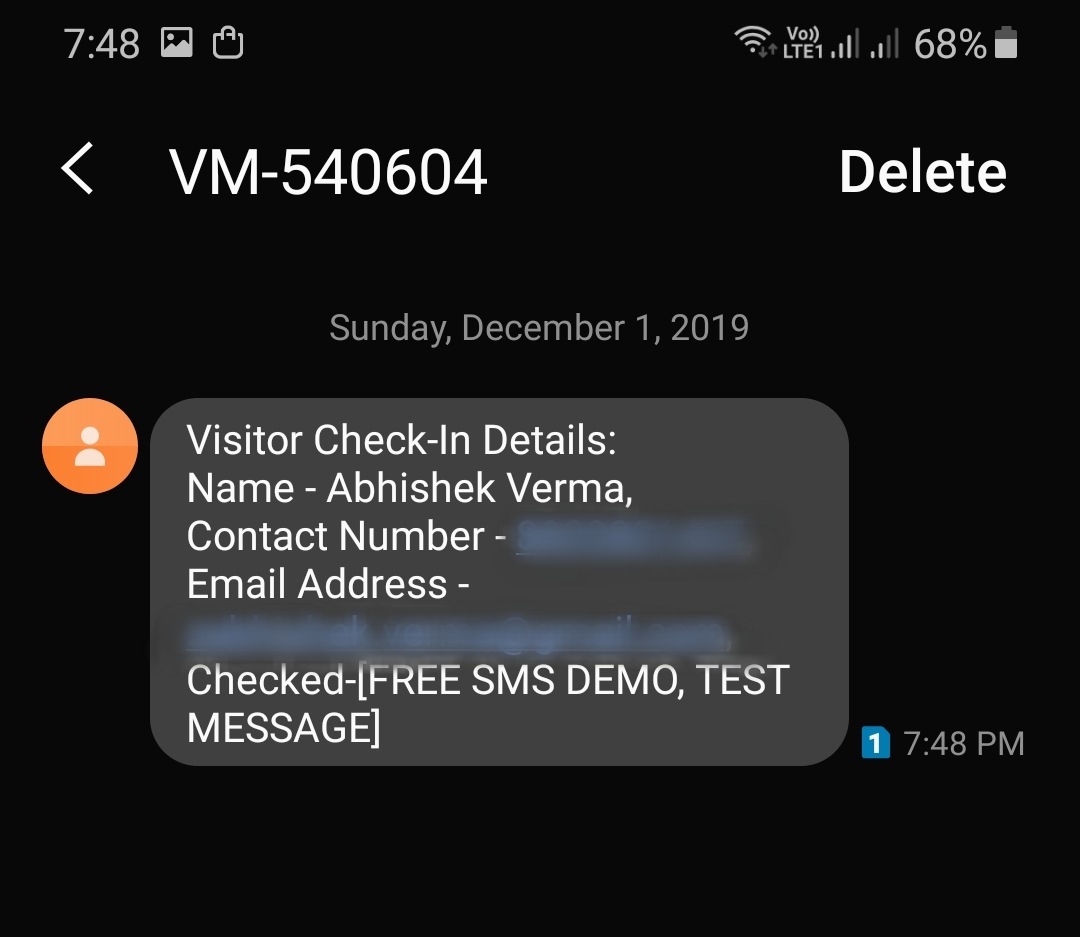
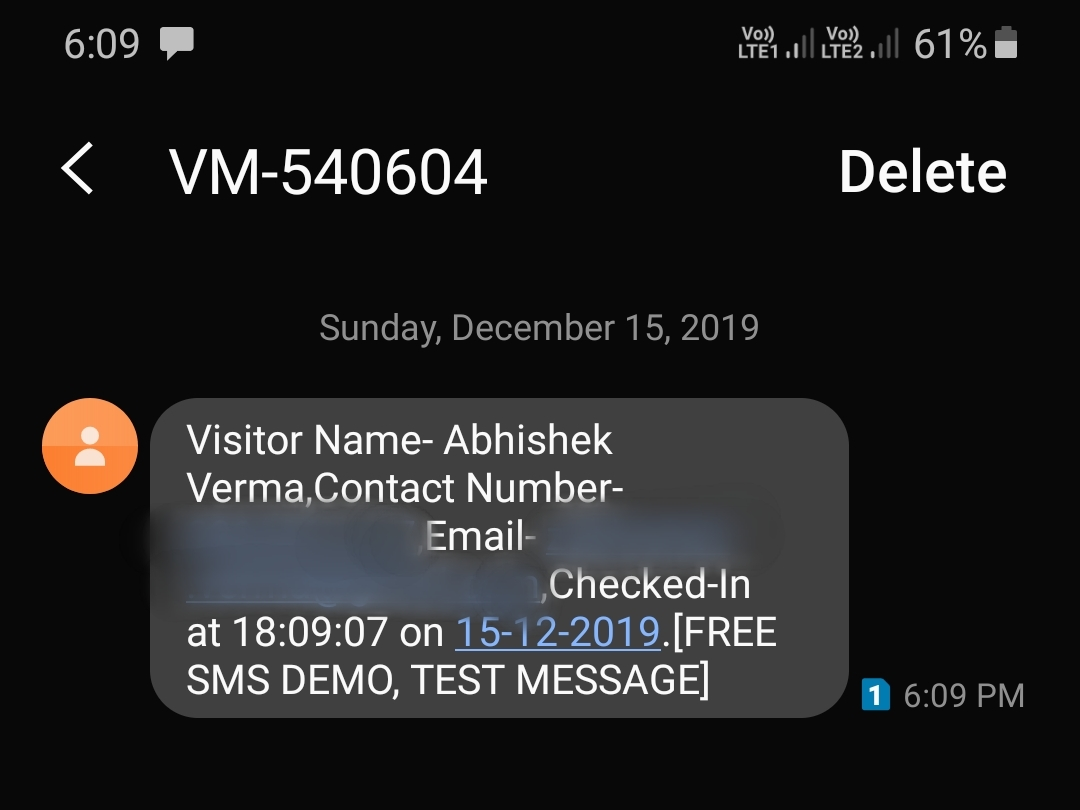
updated README.md file

diff --git a/server.js b/server.js
@@ -129,7 +129,7 @@ app.post('/checkIn', function (req, res) {
                                     apiSecret: process.env.NEXMO_API_SECRET,
                                 });
 
-                                let smsText = `Visitor Check-In Details:\n` + mailText;
+                                let smsText = `Visitor Name- ${user.name},Contact Number- ${user.contactNo},Email- ${user.email},Checked-In at ${user.checkInTime.split(",")[0]} on ${user.checkInTime.split(",")[1]}.`;
 
                                 const from = 'Nexmo';
                                 const to = '+91' + hostContactNo;

diff --git a/README.md b/README.md
@@ -48,7 +48,16 @@ npm i
 
 To setup the environment variables you have to create a .env file, add your Gmail and Nexmo Credentials to it in order to facilitate successful Email and SMS transfers respectively, as shown below
 
-![env Setup](/public/settingUpEnvFile.png)
+```sh
+# nodemailer credetials
+
+NODEMAILER_EMAIL=
+NODEMAILER_PASS=
+
+# nexmo credentials
+NEXMO_API_KEY=
+NEXMO_API_SECRET=
+```
 
 
 
@@ -69,22 +78,22 @@ npm start
 
 Snapshots of project.
 
-- Font Page
-![Font Page](public/bifrostHome.png)
+Home Page
+![Home Page](public/bifrostHome.png)
 
-- Host Registration Page
+Host Registration Page
 ![Host Registration Page](public/host_reg.png)
 
-- Visitor Registration Page
+Visitor Registration Page
 ![Visitor Registration Page](public/visitor_checkin.png)
 
-- Mail sent to Host when a Visitor Checks-in
+Mail sent to Host when a Visitor Checks-in
 ![Check-in Mail sent to Host](public/mail_to_host.png)
 
-- SMS sent to Host when a Visitor Checks-in
+SMS sent to Host when a Visitor Checks-in
 ![Check-in SMS to Host](public/hostMsg.jpeg)
 
-- Mail sent to Visitor on Checks-out
+Mail sent to Visitor on Checks-out
 ![Check-out Mail to Visitor](public/mail_to_visitor.jpeg)
 
 ## Author
@@ -104,6 +113,6 @@ Give a ⭐ if this project helped you!
 ## 📝 License
 
 Copyright © 2019 [Manav Verma](https://github.com/vmanav).<br />
-This project is [ISC](https://github.com/vmanav/Bifrost/blob/master/LICENSE) licensed.
+This project is [GNU](https://github.com/vmanav/Bifrost/blob/master/LICENSE) licensed.
 
 ***
